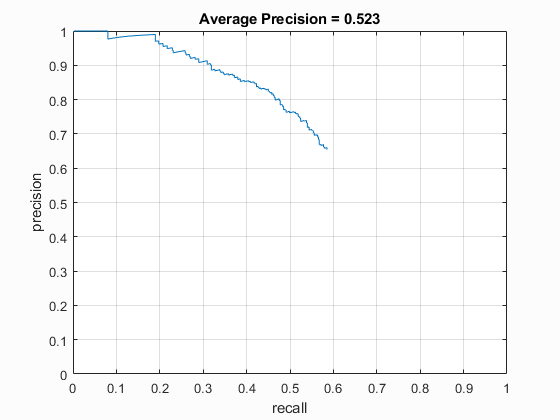
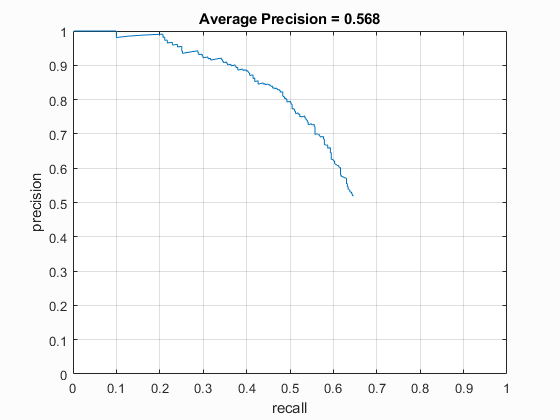
we should be done.....

diff --git a/code_and_images/detect_class_faces.m b/code_and_images/detect_class_faces.m
@@ -1,123 +1,7 @@
-%run('../vlfeat-0.9.20/toolbox/vl_setup')
-imageDir = 'test_images';
-imageList = dir(sprintf('%s/*.jpg',imageDir));
-nImages = length(imageList);
-
-bboxes = zeros(0,4);
-confidences = zeros(0,1);
-image_names = cell(0,1);
-
-cellSize = 6;
-dim = 36;
-thres = 0.3;
-
-load('my_svm.mat')
-
-for i=1:nImages
-    cla reset;
-    % load and show the image
-    im = im2single(imread(sprintf('%s/%s',imageDir,imageList(i).name)));
-     imshow(im);
-     hold on;
-    
-    % generate a grid of features across the entire image. you may want to 
-    % try generating features more densely (i.e., not in a grid)
-    feats = vl_hog(im,cellSize);
-    
-    % concatenate the features into 6x6 bins, and classify them (as if they
-    % represent 36x36-pixel faces)
-    [rows,cols,~] = size(feats);    
-    confs = zeros(rows,cols);
-    for r=1:rows-5
-        for c=1:cols-5
-
-        % create feature vector for the current window and classify it using the SVM model, 
-        featureV = feats(r:r+5,c:c+5,:);
-        featureV = reshape(featureV, [1,cellSize*cellSize*31]);
-        % take dot product between feature vector and w and add b,
-        classified = featureV*w + b;
-        % store the result in the matrix of confidence scores confs(r,c)
-        confs(r,c) = classified;
-
-        end
-    end
-       
-    % get the most confident predictions 
-    [~,inds] = sort(confs(:),'descend');
-    inds = inds(1:20); % (use a bigger number for better recall)
-    boxesAdded = 1;
-    for n=1:numel(inds)        
-        [row,col] = ind2sub([size(feats,1) size(feats,2)],inds(n));
-        
-        bbox = [ col*cellSize ...
-                 row*cellSize ...
-                (col+cellSize-1)*cellSize ...
-                (row+cellSize-1)*cellSize];
-        conf = confs(row,col);
-        
-        if (conf <= 0.7)
-            continue;
-        end
-        
-        image_name = {imageList(i).name};
-        
-        saveToggle = true;
-        pCount = 1;
-        %greedy non-max suppression
-        for pInd=height(bboxes):-1:height(bboxes)-boxesAdded+2
-            pBox = bboxes(pInd,:);
-            
-            bi=[max(bbox(1),pBox(1)) ; max(bbox(2),pBox(2)) ...
-                ; min(bbox(3),pBox(3)) ; min(bbox(4),pBox(4))];
-            iw=bi(3)-bi(1)+1;
-            ih=bi(4)-bi(2)+1;
-            ua=(bbox(3)-bbox(1)+1)*(bbox(4)-bbox(2)+1)+...
-               (pBox(3)-pBox(1)+1)*(pBox(4)-pBox(2)+1)-...
-               iw*ih;
-            overlap=iw*ih/ua;
-            disp(overlap)
-            if (overlap > thres)
-                saveToggle = false;
-                [pRow,pCol] = ind2sub([size(feats,1) size(feats,2)],inds(n-pCount));
-                pConf = confs(pRow,pCol);
-                if (pConf < conf)
-                    bboxes(pInd,:) = bbox;
-                end
-                break;
-            end
-            pCount = pCount+1;
-        end
-        if (saveToggle)
-            boxesAdded = boxesAdded+1;
-            % plot
-            plot_rectangle = [bbox(1), bbox(2); ...
-                bbox(1), bbox(4); ...
-                bbox(3), bbox(4); ...
-                bbox(3), bbox(2); ...
-                bbox(1), bbox(2)];
-            plot(plot_rectangle(:,1), plot_rectangle(:,2), 'g-');
-
-            % save         
-            bboxes = [bboxes; bbox];
-            confidences = [confidences; conf];
-            image_names = [image_names; image_name];
-        end
-    end
-    %
-    fprintf('got preds for image %d/%d\n', i,nImages);
-    pause;
-end
-
-%%
-% evaluate
-label_path = 'test_images_gt.txt';
-[gt_ids, gt_bboxes, gt_isclaimed, tp, fp, duplicate_detections] = ...
-    evaluate_detections_on_test(bboxes, confidences, image_names, label_path);
-
 %% Face Detection w/ multi-scale analysis & non-greedy non-max suppression
 
-%imageDir = 'class'; %REPLACE WITH THIS TO CLASSIFY THE class.jpg
-imageDir = 'test_images';
+% we just put the class image in this folder to easy use of exsisting code.
+imageDir = 'class'; 
 imageList = dir(sprintf('%s/*.jpg',imageDir));
 nImages = length(imageList);
 
@@ -128,7 +12,7 @@ image_names = cell(0,1);
 cellSize = 6;
 dim = 36;
 thres = 0.5;
-scales = [1,1/2,1/3,1/4,1/5,1/6,1/7,1/8,1/9,1/10,1/11,1/12,1/14,1/15];% 13 bad
+scales = [1,1/2,1/3,1/4,1/5,1/6,1/7,1/8,1/9,1/10,1/11,1/12,1/14,1/15];
 load('my_svm.mat')
 
 for i=1:nImages
@@ -251,15 +135,4 @@ for i=1:nImages
         confidences = [confidences; finalConfs];
         image_names = [image_names; finalImNames];
     end
-    %pause;
 end
-%%
-% evaluate
-label_path = 'test_images_gt.txt';
-[gt_ids, gt_bboxes, gt_isclaimed, tp, fp, duplicate_detections] = ...
-    evaluate_detections_on_test(bboxes, confidences, image_names, label_path);
-
-%%
-%Run this section to see our classifed class image.
-class_classified = imread("class-classified.png");
-imshow(class_classified);

diff --git a/code_and_images/detect_summary.m b/code_and_images/detect_summary.m
@@ -1,0 +1,48 @@
+disp("First, we generate a grid of features across the entire image along")
+disp("with concatenating the features into 6x6 bins, and classifying them (as if they represent 36x36-pixel faces)");
+
+fprintf('\n')
+
+disp("We increased the number of most condident prediction to improve recall.")
+disp("We also verified that it did not exceed the number of predictions found")
+
+fprintf('\n')
+disp("After completeing the single window face detection and see bad results with non-max suppression")
+disp("we implemented multi-scale face detection on various scale factors.")
+fprintf('\n')
+disp("Initally, we used inverse powers of 2 as scaling factors and recieved a max")
+disp("average percision of 0.340. By reducing the scaling factors increments")
+disp("we observed much better average persicion at around 0.520")
+
+fprintf('\n')
+disp("Our final optimization was to implement a confidence threshold where we")
+disp("ignored any bounding box with a condifence lower than 0.65. This along with")
+disp("an overlay threshold of 0.50 resulted in an average percision of 0.584")
+fprintf('\n')
+disp("Please press enter to view our best precision-recall graph:")
+pause;
+
+persicionRecall=imread('best-precision-recall.png');
+imshow(persicionRecall)
+
+disp("Please press enter to view our best recall-false positive graph:")
+pause;
+recallFalsePos=imread('best-recall-falsepos.png');
+imshow(recallFalsePos)
+
+fprintf('\n')
+
+disp("Please press enter to view our best class image results:")
+pause;
+fprintf('\n')
+
+disp("By observing the preditions made on the class image we have come up with")
+disp("the following confusion matrix roughly quantifying our results.")
+
+cMatrix = imread("class-confusion-matrix.png");
+imshow(cMatrix);
+
+disp("Here you can see a percision of about 0.7 and an accuracy of 0.5")
+
+
+
